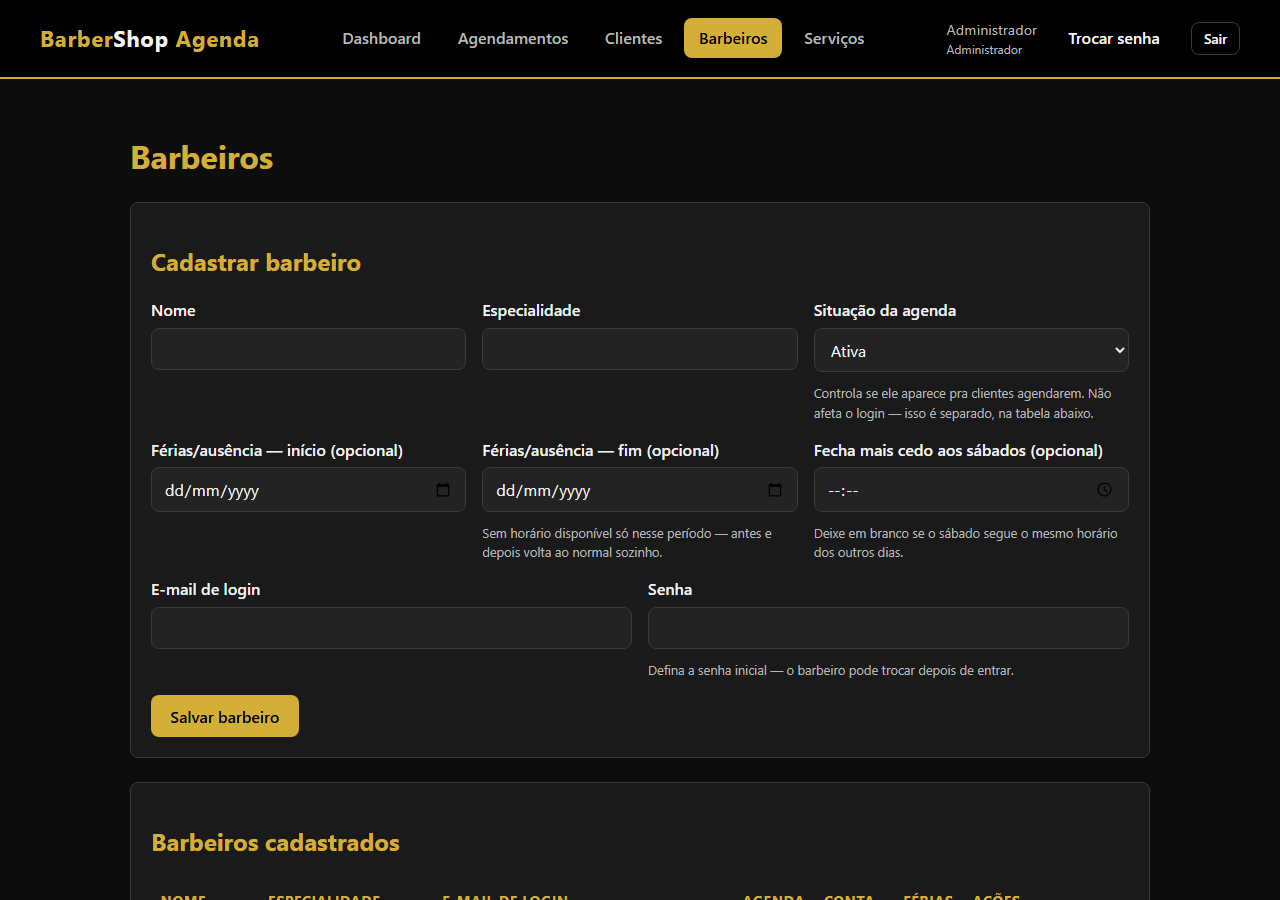
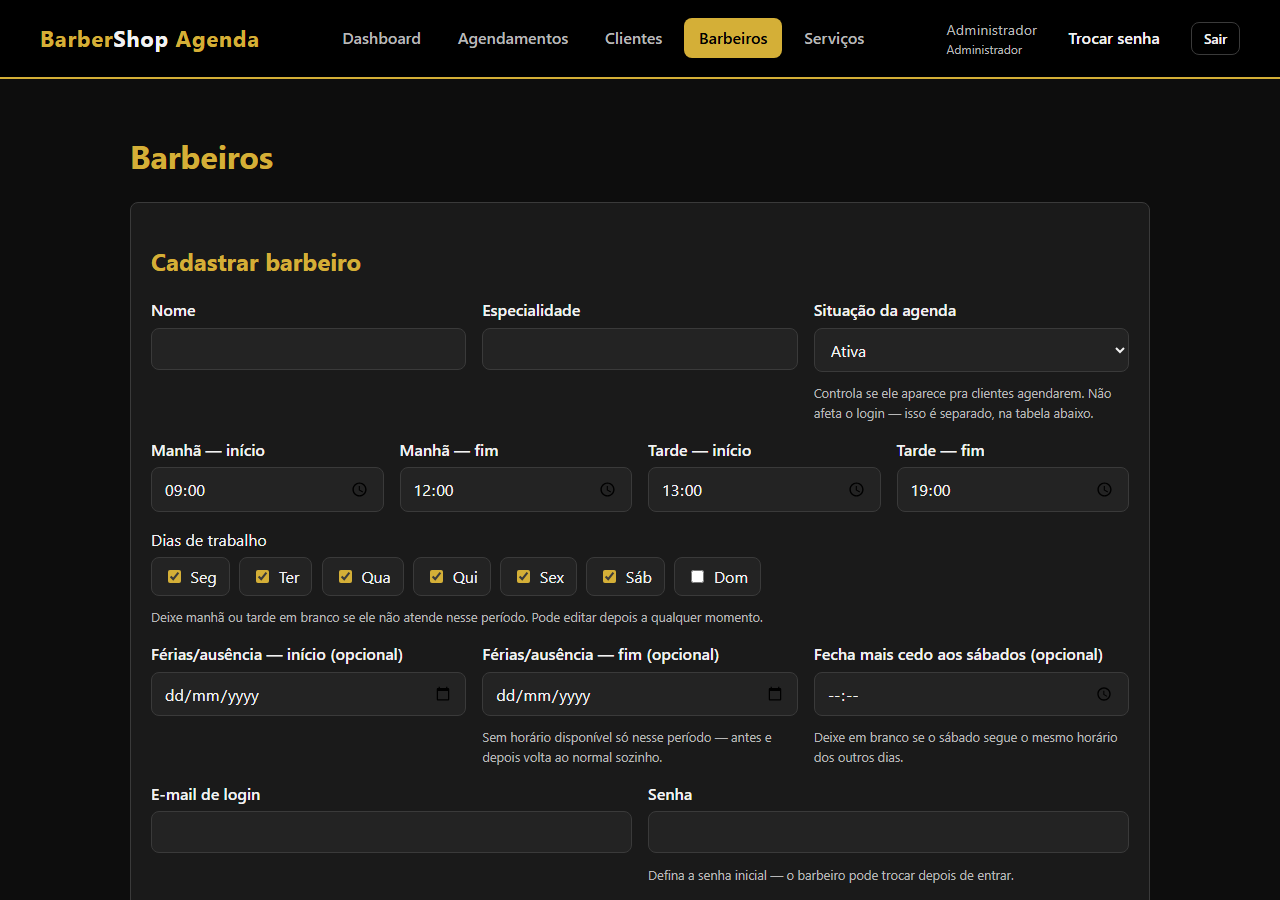
Atualiza README: contagem real de testes (26), nova funcionalidade do admin e screenshot do formulario de barbeiros

diff --git a/README.md b/README.md
@@ -67,7 +67,7 @@ O sistema tem como objetivo **facilitar o agendamento de serviços**, tornando a
 **Administrador**
 - Dashboard com resumo do dia (total de agendamentos, status e receita prevista).
 - CRUD completo de clientes, barbeiros e serviços.
-- Cadastro de barbeiro já cria a conta de login (e-mail + senha inicial).
+- Cadastro de barbeiro já cria a conta de login (e-mail + senha inicial) e os horários de trabalho (manhã/tarde, dias da semana) — editáveis a qualquer momento depois.
 - Controle independente de **agenda** (aparece pra cliente agendar) e **conta** (consegue logar) por barbeiro — inativar a conta remove o barbeiro completamente da visão de clientes e de outros usuários, sem apagar o histórico.
 - Período de férias/ausência por barbeiro: sem horário disponível só durante o intervalo definido, com retomada automática depois.
 - Visão de todos os agendamentos, com filtro por barbeiro e por data.
@@ -239,7 +239,7 @@ Se a URL/porta da API não for `https://localhost:7001/api`, ajuste antes de car
 dotnet test
 ```
 
-São 24 testes cobrindo: criação de agendamento válido, conflito de horário por barbeiro e por cliente, cancelamento, listagem por data, cálculo de horários disponíveis (incluindo período de férias e o expediente reduzido de sábado), autenticação (login válido/inválido/e-mail não confirmado), troca de senha, e o ciclo completo de conta de cliente (registro, vínculo ao histórico de convidado, confirmação de e-mail, redefinição de senha).
+São 26 testes cobrindo: criação de agendamento válido, conflito de horário por barbeiro e por cliente, cancelamento, listagem por data, cálculo de horários disponíveis (incluindo período de férias e o expediente reduzido de sábado), atualização de horários/dias de trabalho do barbeiro, autenticação (login válido/inválido/e-mail não confirmado), troca de senha, e o ciclo completo de conta de cliente (registro, vínculo ao histórico de convidado, confirmação de e-mail, redefinição de senha).
 
 ---
 
